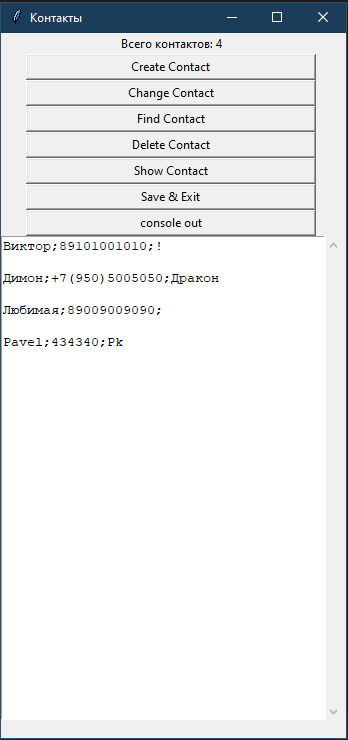
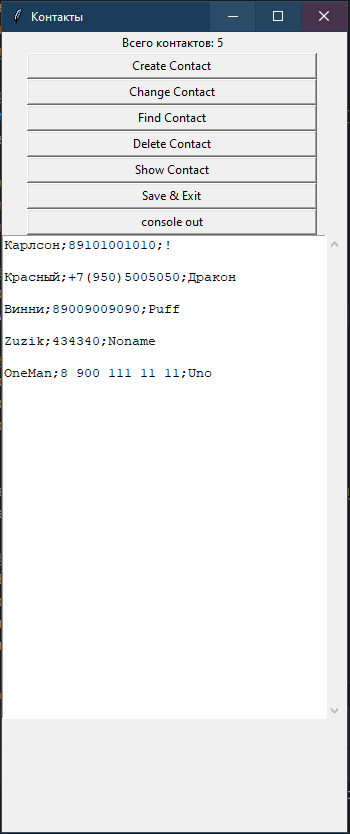
show_contacts_in_window - done

Changed region(s): [[0.0, 0.0, 1.0, 1.0]]

diff --git a/PythonPractics/Contacts_base/contacts_base_windows/windows.py b/PythonPractics/Contacts_base/contacts_base_windows/windows.py
@@ -35,6 +35,7 @@ def create_contact():
 
         # Закрываем всплывающее окно
         window_create.destroy()
+        show_contacts_in_window()
 
     # Создание всплывающего окна
     window_create = Toplevel(window)
@@ -110,6 +111,7 @@ def delete_contact():
             alert_delete.destroy()
             print("Контакт удален")
             lbl_delete['text'] = "Контакт удален {}".format(line)
+            show_contacts_in_window()
 
         # Получаем данные из полей ввода
         name_delete_value = name_delete.get()
@@ -173,13 +175,19 @@ def count_contact(dbase):
 
 def console_out():
     print(dbase)
+def show_contacts_in_window():
+    lbl = Label(window, text="Всего контактов: " + str(count_contact(dbase)))
+    lbl.grid(column=0, row=0)
+    list_contacts.delete('1.0', 'end')
+    for contact in dbase:
+        list_contacts.insert('end', contact + '\n')
 
 
 dbase = open_file(FILE_NAME)
 window = Tk()
 window.title("Контакты")
 window.geometry('345x800')
-lbl = Label(window, text="Всего контактов: " + str(count_contact(dbase)))
+lbl = Label(window, text="")
 lbl.grid(column=0, row=0)
 
 # Кнопки
@@ -198,12 +206,13 @@ bnt6.grid(column=0, row=7)
 bnt7 = Button(window, text="console out", command=console_out, width=40)
 bnt7.grid(column=0, row=8)
 
+
 #отображение контактов на главном экране
 list_contacts = scrolledtext.ScrolledText(window, width=40, height=30)
 list_contacts.grid(column=0, row=9)
+
 #Заполнение многострочного поля данными из dbase
-for contact in dbase:
-    list_contacts.insert('end', contact + '\n')
+show_contacts_in_window()
 
 # Запуск цикла
 window.mainloop()

diff --git a/PythonPractics/Contacts_base/README.md b/PythonPractics/Contacts_base/README.md
@@ -29,6 +29,10 @@ _Оконная реализация записной книги, использ
 * Create - работает - открыват файлы
 * Change - pass
 * Find - работает в отдельном окне
-* Delete - криво работает
+* Delete - работает с окном предупреждения
 * Show - работает в отдельном окне
 * Save & Exit - работает с сохранением в файл после create
+
+Структура
+
+![structure](structure.png)
